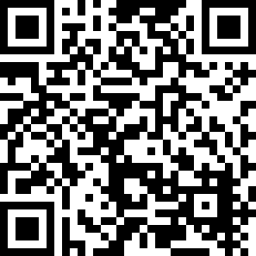
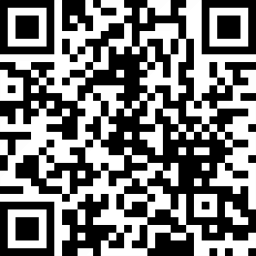
don : le bouton aux montants suggérés
Nouvel identifiant de bouton hébergé — 10 20 ou 50 €, ou le montant de son
choix — avec son code QR. Un montant passé dans l URL restait sans effet.

diff --git a/README.en.md b/README.en.md
@@ -54,9 +54,10 @@ It is written in French for now.
 
 ## Support the project
 
-XPackager is **free**. A donation encourages what comes next if the tool serves you well.
+XPackager is **free**. A donation encourages what comes next if the tool serves you well —
+€10, €20 or €50, or whatever you choose.
 
-[![Donate with PayPal](https://www.paypalobjects.com/en_US/i/btn/btn_donate_LG.gif)](https://www.paypal.com/donate/?hosted_button_id=JC8AYAXZS4MDA)
+[![Donate with PayPal](https://www.paypalobjects.com/en_US/i/btn/btn_donate_LG.gif)](https://www.paypal.com/donate/?hosted_button_id=J5GEC6T9ZX2XE)
 
 Or by scanning this code:
 

diff --git a/README.md b/README.md
@@ -55,9 +55,10 @@ vérifié.
 
 ## Soutenir
 
-XPackager est **gratuit**. Un don encourage la suite si l'outil vous rend service.
+XPackager est **gratuit**. Un don encourage la suite si l'outil vous rend service —
+10, 20 ou 50 €, ou le montant de votre choix.
 
-[![Faire un don avec PayPal](https://www.paypalobjects.com/en_US/i/btn/btn_donate_LG.gif)](https://www.paypal.com/donate/?hosted_button_id=JC8AYAXZS4MDA)
+[![Faire un don avec PayPal](https://www.paypalobjects.com/en_US/i/btn/btn_donate_LG.gif)](https://www.paypal.com/donate/?hosted_button_id=J5GEC6T9ZX2XE)
 
 Ou en scannant ce code :
 
